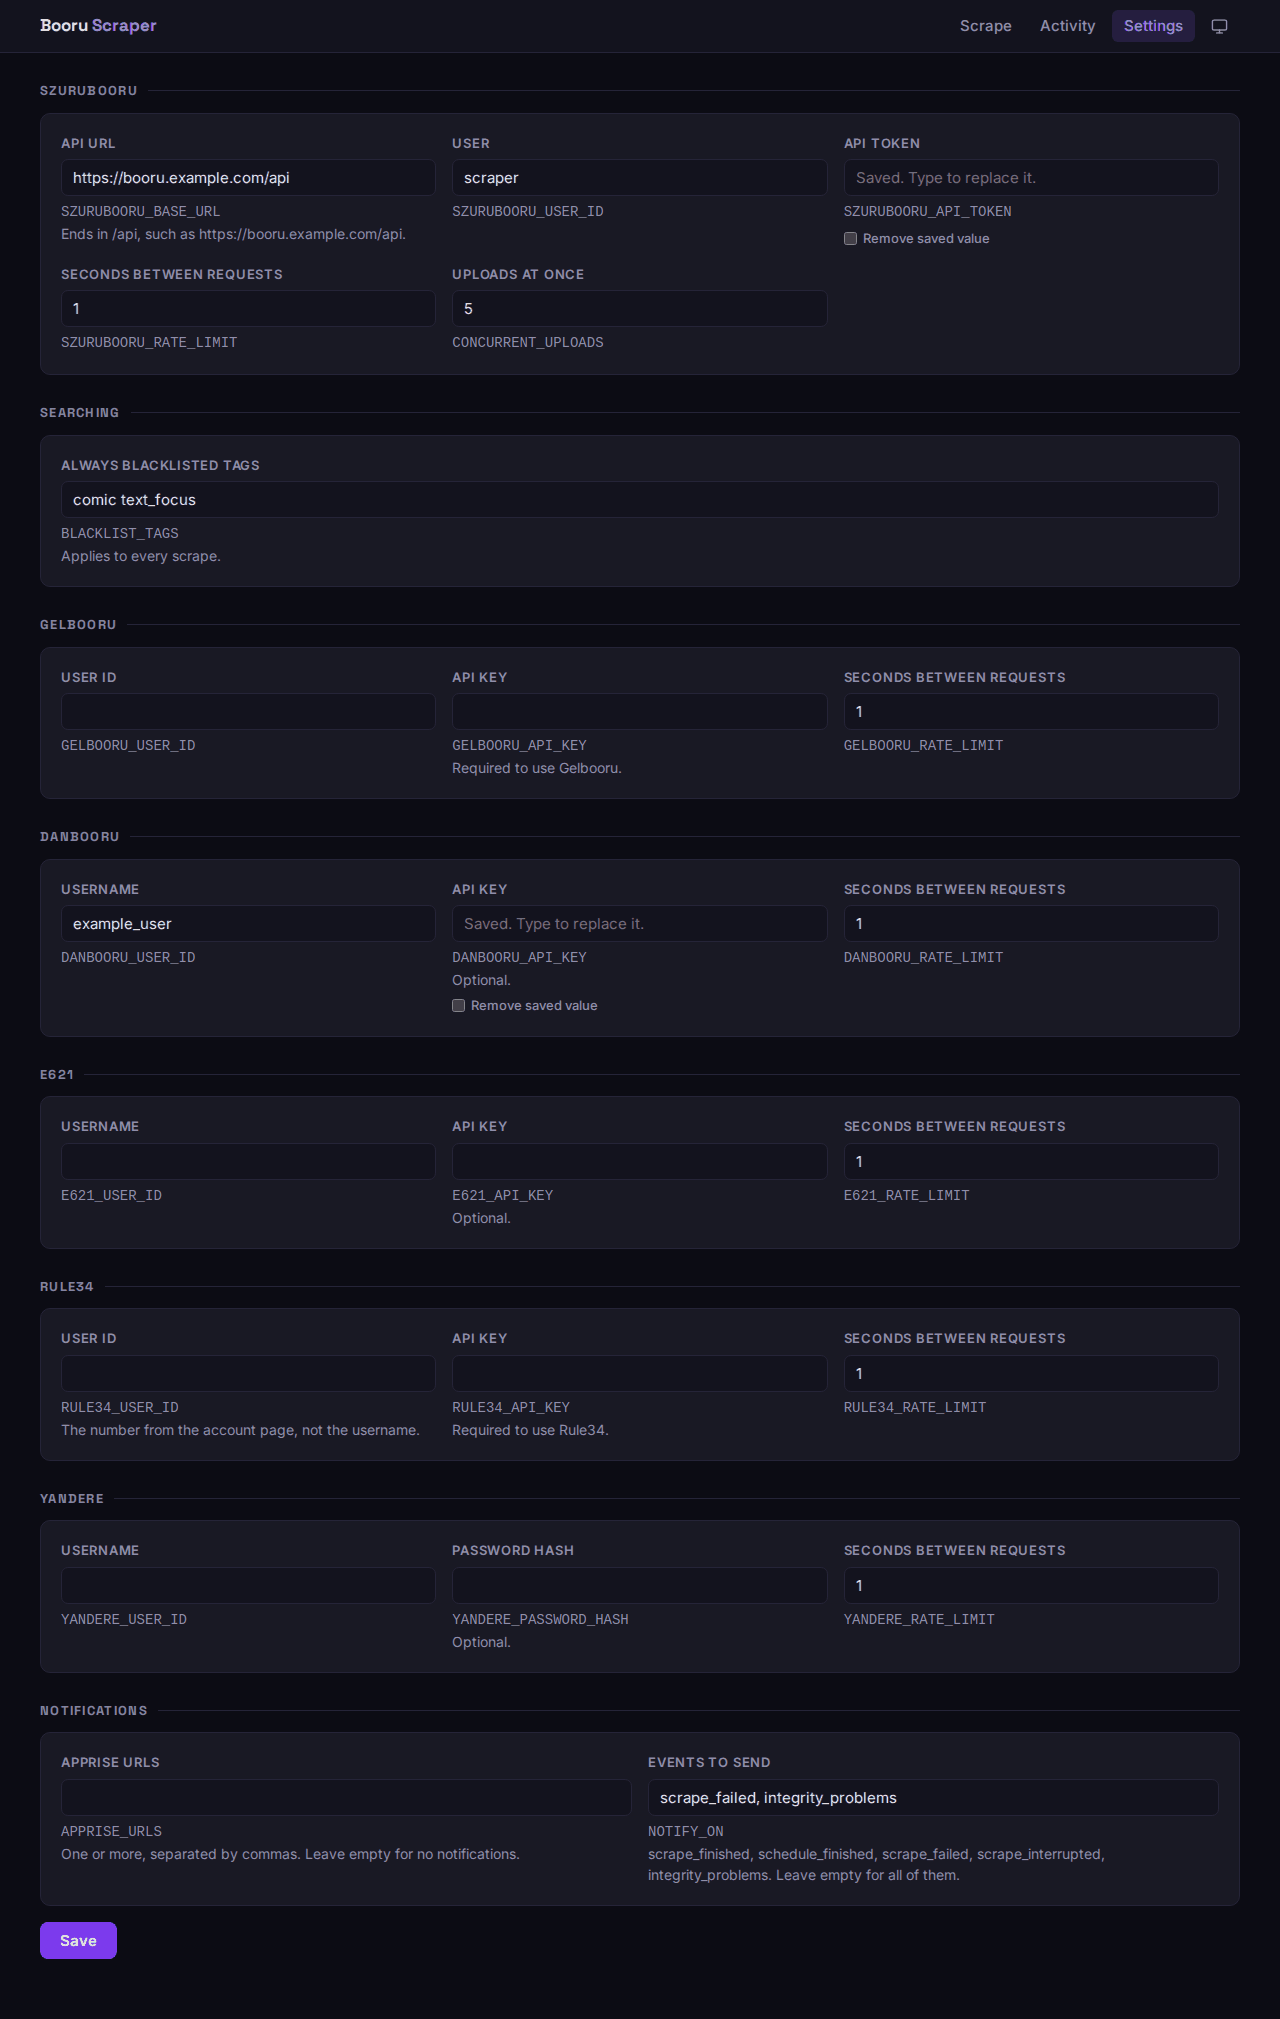
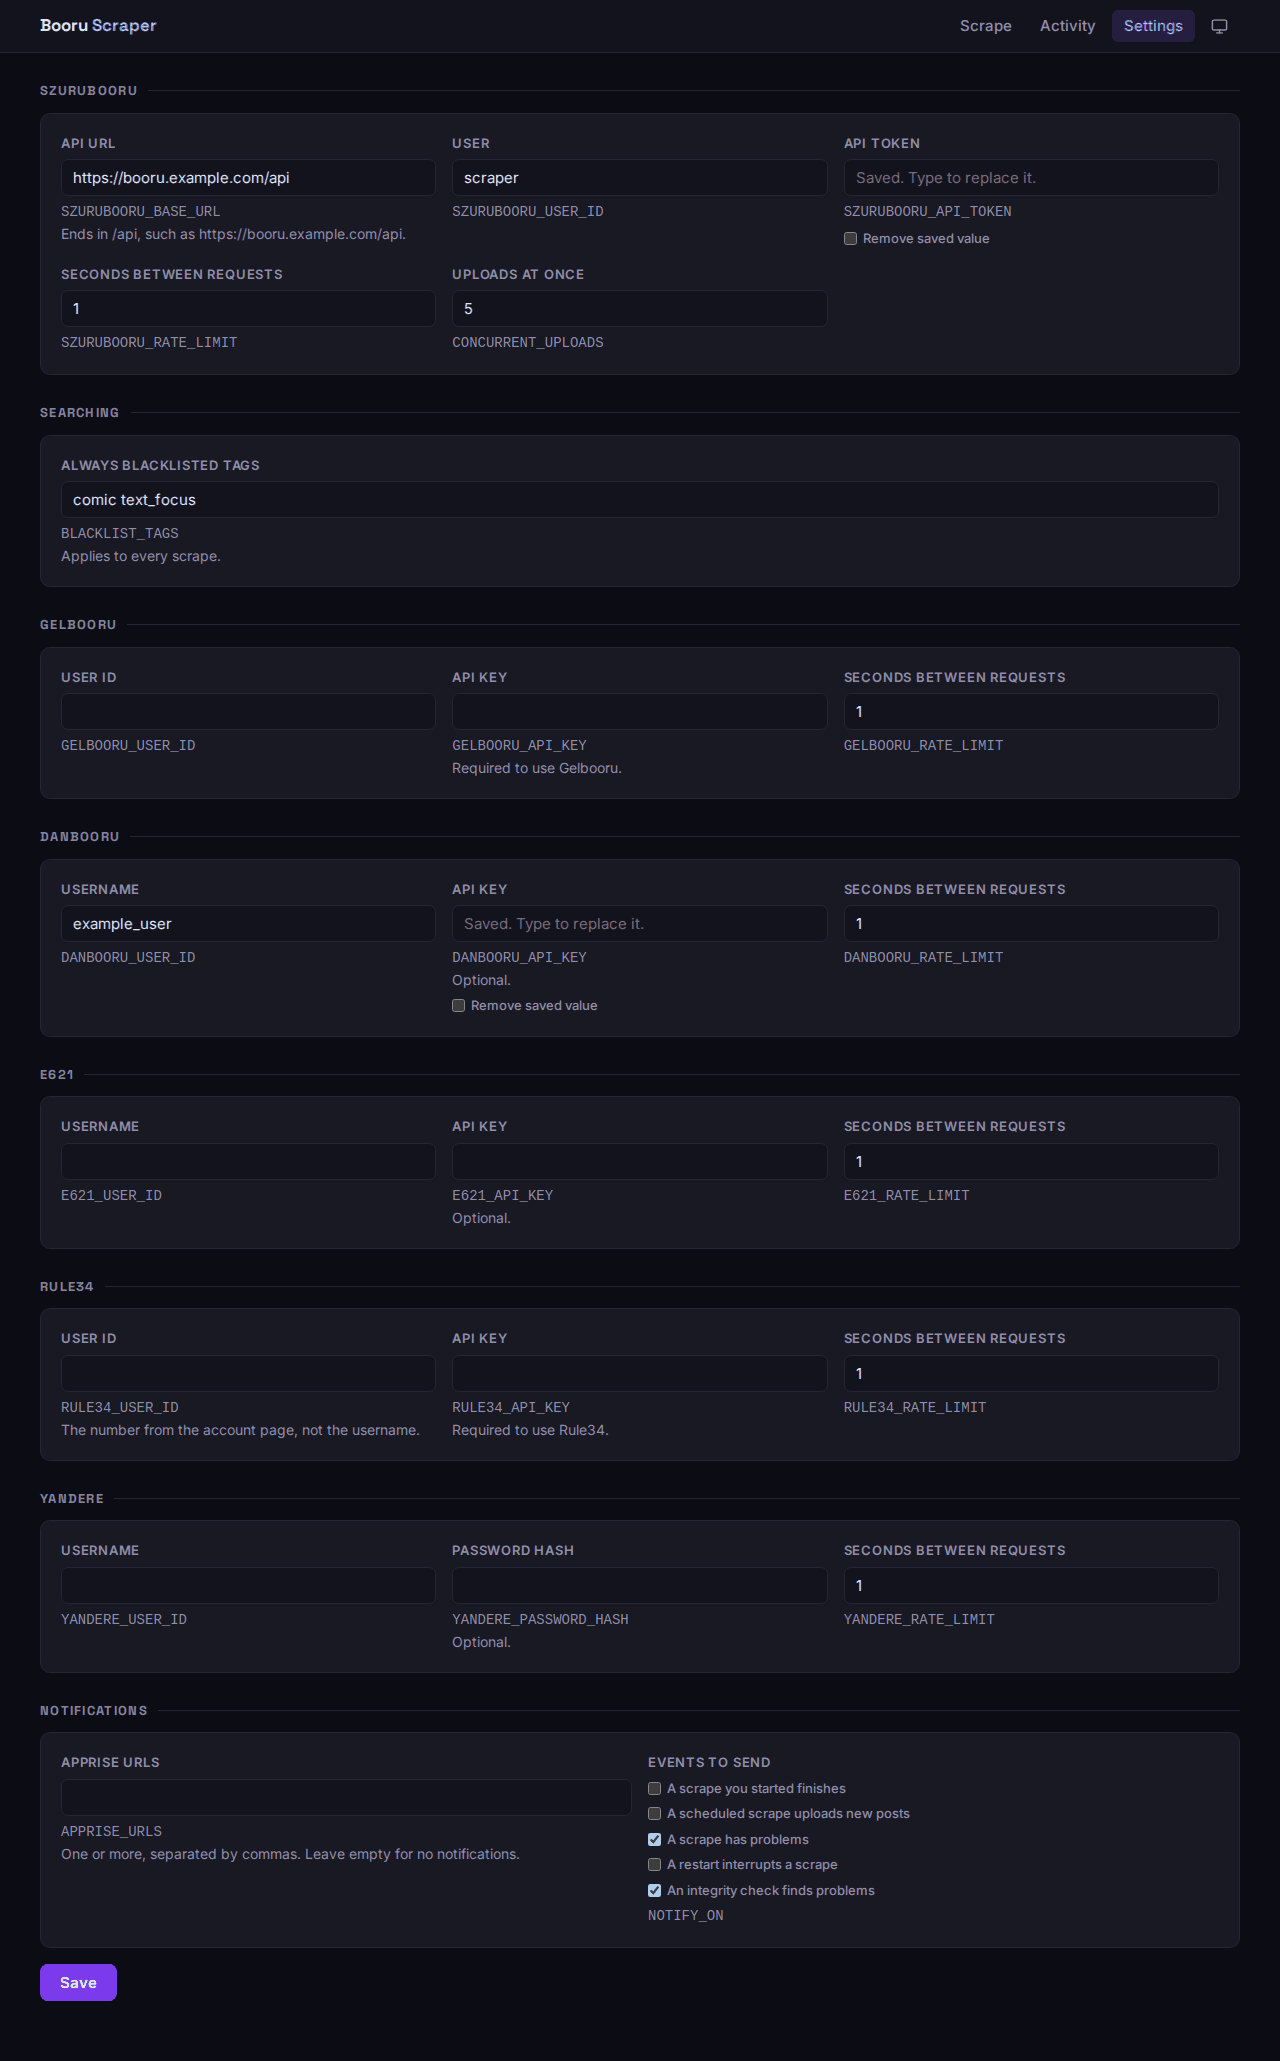
feat: choose notification events with checkboxes
An empty NOTIFY_ON still means every event, so unchecking all of them is
saved as none rather than silently sending everything. Unknown event
names are refused.

diff --git a/app/templates/settings.html b/app/templates/settings.html
@@ -14,6 +14,19 @@
   <div class="card settings-grid">
     {% for field in fields %}
     {% set setting = field.setting %}
+    {% set locked = field.from_env or not editable %}
+    {% if field.choices %}
+    <fieldset class="form-group settings-choices" data-setting="{{ setting.name }}">
+      <legend>{{ setting.label }}</legend>
+      {% for choice in field.choices %}
+      <label class="settings-clear"><input type="checkbox" value="{{ choice.name }}" {% if choice.checked %}checked{% endif %} {% if locked %}disabled{% endif %}> {{ choice.label }}</label>
+      {% endfor %}
+      <span class="field-hint">
+        <code class="setting-name">{{ setting.name }}</code>
+        {% if field.from_env %}Set in <code>.env</code>, which takes priority.{% endif %}
+      </span>
+    </fieldset>
+    {% else %}
     <div class="form-group">
       <label for="{{ setting.name }}">{{ setting.label }}</label>
       <input
@@ -23,7 +36,7 @@
         value="{{ field.value }}"
         autocomplete="{{ 'new-password' if setting.secret else 'off' }}"
         {% if setting.secret %}data-secret{% if field.is_set %} placeholder="Saved. Type to replace it."{% endif %}{% endif %}
-        {% if field.from_env or not editable or (setting.secret and not has_key) %}disabled{% endif %}
+        {% if locked or (setting.secret and not has_key) %}disabled{% endif %}
       >
       <span class="field-hint">
         <code class="setting-name">{{ setting.name }}</code>
@@ -35,6 +48,7 @@
       <label class="settings-clear"><input type="checkbox" data-clear="{{ setting.name }}"> Remove saved value</label>
       {% endif %}
     </div>
+    {% endif %}
     {% endfor %}
   </div>
   {% endfor %}
@@ -50,12 +64,27 @@
 {% block scripts %}
 <script>
   const form = document.getElementById('settings-form');
+  const choiceGroups = [...form.querySelectorAll('[data-setting]')];
+
+  function chosenValue(group) {
+    const boxes = [...group.querySelectorAll('input')];
+    const checked = boxes.filter(box => box.checked).map(box => box.value);
+    if (checked.length === boxes.length) return '';
+    return checked.join(',') || 'none';
+  }
+
+  const savedChoices = new Map(choiceGroups.map(group => [group, chosenValue(group)]));
+
   form.addEventListener('submit', async event => {
     event.preventDefault();
     const inputs = [...form.querySelectorAll('input[name]:not(:disabled)')];
     const changed = inputs.filter(input => input.value !== input.defaultValue);
+    const changedChoices = choiceGroups.filter(group => chosenValue(group) !== savedChoices.get(group));
     const body = {
-      values: Object.fromEntries(changed.map(input => [input.name, input.value])),
+      values: Object.fromEntries([
+        ...changed.map(input => [input.name, input.value]),
+        ...changedChoices.map(group => [group.dataset.setting, chosenValue(group)]),
+      ]),
       cleared: [...form.querySelectorAll('[data-clear]:checked')].map(box => box.dataset.clear),
     };
     const res = await apiCall('/api/settings', {

diff --git a/app/static/styles.css b/app/static/styles.css
@@ -212,6 +212,12 @@ select { cursor: pointer; appearance: none;
 .setting-name { display: block; }
 .settings-clear { display: flex; align-items: center; gap: 6px; text-transform: none; letter-spacing: 0; font-weight: 500; }
 .settings-actions { margin-top: 16px; }
+.settings-choices { border: 0; padding: 0; margin: 0; min-width: 0; }
+.settings-choices legend {
+  padding: 0; margin-bottom: 6px;
+  font-size: .8125rem; font-weight: 600; letter-spacing: .06em; text-transform: uppercase;
+  color: var(--text-2);
+}
 
 /* ── button ──────────────────────────────────────────────────── */
 .btn {

diff --git a/tests/test_settings.py b/tests/test_settings.py
@@ -3,7 +3,7 @@ import asyncio
 import pytest
 from fastapi.testclient import TestClient
 
-from app import config, db, main, scrape, settings
+from app import config, db, main, notify, scrape, settings
 from app.sources import danbooru, rule34
 
 KEY_NAME = "RULE34_API_KEY"
@@ -38,6 +38,7 @@ def saved(monkeypatch):
     config.apply({})
     for module in (danbooru, rule34):
         module.configure()
+    notify.setup()
 
 
 @pytest.fixture
@@ -177,6 +178,39 @@ def test_secrets_can_be_removed(saved, client):
 
     assert KEY_NAME not in saved
     assert config.RULE34_API_KEY == ""
+
+
+def test_event_choices_match_the_notifications_sent():
+    assert {name for name, _ in config.NOTIFY_EVENTS} == set(notify.EVENTS)
+
+
+@pytest.mark.parametrize(
+    "value, checked",
+    [("", 5), ("scrape_failed,integrity_problems", 2), ("none", 0)],
+)
+def test_event_checkboxes_show_what_is_saved(client, value, checked):
+    assert save(client, {"NOTIFY_ON": value}).status_code == 204
+
+    fieldset = client.get("/settings").text.split('data-setting="NOTIFY_ON"')[1].split("</fieldset>")[0]
+
+    assert fieldset.count("checked") == checked
+
+
+def test_unchecking_every_event_sends_none(client):
+    assert save(client, {"NOTIFY_ON": "none"}).status_code == 204
+
+    assert notify.chosen == set()
+
+
+def test_all_events_are_sent_by_default(client):
+    assert save(client, {"NOTIFY_ON": ""}).status_code == 204
+
+    assert notify.chosen == set(notify.EVENTS)
+
+
+def test_unknown_events_are_refused(saved, client):
+    assert save(client, {"NOTIFY_ON": "scrape_failed,not_an_event"}).status_code == 422
+    assert saved == {}
 
 
 def test_saving_waits_for_running_work(saved, client, monkeypatch):

diff --git a/app/config.py b/app/config.py
@@ -26,6 +26,21 @@ class Setting:
     default: str = ""
     parse: type = str
     hint: str = ""
+    choices: tuple = ()
+
+
+NO_CHOICES = "none"
+NOTIFY_EVENTS = (
+    ("scrape_finished", "A scrape you started finishes"),
+    ("schedule_finished", "A scheduled scrape uploads new posts"),
+    ("scrape_failed", "A scrape has problems"),
+    ("scrape_interrupted", "A restart interrupts a scrape"),
+    ("integrity_problems", "An integrity check finds problems"),
+)
+
+
+def chosen_names(value):
+    return value.replace(",", " ").split()
 
 
 def _rate_limit(group, service):
@@ -61,13 +76,7 @@ SETTINGS = (
         secret=True,
         hint="One or more, separated by commas. Leave empty for no notifications.",
     ),
-    Setting(
-        "NOTIFY_ON",
-        "Notifications",
-        "Events to send",
-        hint="scrape_finished, schedule_finished, scrape_failed, scrape_interrupted, integrity_problems. "
-        "Leave empty for all of them.",
-    ),
+    Setting("NOTIFY_ON", "Notifications", "Events to send", choices=NOTIFY_EVENTS),
 )
 SETTINGS_BY_NAME = {setting.name: setting for setting in SETTINGS}
 _SZURUBOORU_REQUIRED = ("SZURUBOORU_BASE_URL", "SZURUBOORU_USER_ID", "SZURUBOORU_API_TOKEN")

diff --git a/app/settings.py b/app/settings.py
@@ -48,6 +48,11 @@ async def load():
 def check(setting, value):
     if not value:
         return
+    if setting.choices:
+        known = {name for name, _ in setting.choices} | {config.NO_CHOICES}
+        if unknown := set(config.chosen_names(value)) - known:
+            raise Invalid(f"{setting.label} doesn't include {', '.join(sorted(unknown))}.")
+        return
     try:
         number = setting.parse(value)
     except ValueError:
@@ -95,6 +100,14 @@ async def save(values, cleared):
     await load()
 
 
+def chosen_view(setting, value):
+    names = config.chosen_names(value)
+    return [
+        {"name": name, "label": label, "checked": name in names or not names}
+        for name, label in setting.choices
+    ]
+
+
 def view():
     groups = {}
     for setting in config.SETTINGS:
@@ -106,6 +119,7 @@ def view():
                 "is_set": bool(value),
                 "from_env": config.set_by_env(setting.name),
                 "unreadable": setting.name in unreadable,
+                "choices": chosen_view(setting, value) if setting.choices else [],
             }
         )
     return groups

diff --git a/app/notify.py b/app/notify.py
@@ -22,7 +22,7 @@ chosen = set()
 def setup():
     chosen.clear()
     services.clear()
-    names = set(config.NOTIFY_ON.replace(",", " ").split()) or set(EVENTS)
+    names = (set(config.chosen_names(config.NOTIFY_ON)) or set(EVENTS)) - {config.NO_CHOICES}
     chosen.update(names & set(EVENTS))
     if names - set(EVENTS):
         logger.warning(f"Ignoring unknown NOTIFY_ON event(s): {', '.join(sorted(names - set(EVENTS)))}")

diff --git a/docs/notifications.md b/docs/notifications.md
@@ -2,7 +2,7 @@
 
 Notifications are optional and off until you add a service. In Settings, set **Apprise URLs** to one or more [Apprise URLs](https://appriseit.com/services/), separated by commas, such as `ntfys://my-topic,discord://webhook_id/webhook_token`. An existing [Apprise API](https://github.com/caronc/apprise-api) server works too, through `apprise://host/key`.
 
-To send only some notifications, list them in **Events to send**, separated by commas. Leave it empty for all of them.
+Under **Events to send**, tick the ones you want. All of them are on by default.
 
 | Event | Sent when |
 | --- | --- |
@@ -11,5 +11,7 @@ To send only some notifications, list them in **Events to send**, separated by c
 | `scrape_failed` | Any scrape hits an error or fails to upload a post |
 | `scrape_interrupted` | A restart cuts a scrape short |
 | `integrity_problems` | An integrity check finds missing or damaged posts, or can't finish |
+
+In `.env`, `NOTIFY_ON` takes the event names separated by commas, or `none` for no notifications. Leave it empty for all of them.
 
 Stopping a scrape yourself sends nothing. A failed notification is logged and never affects the scrape.
